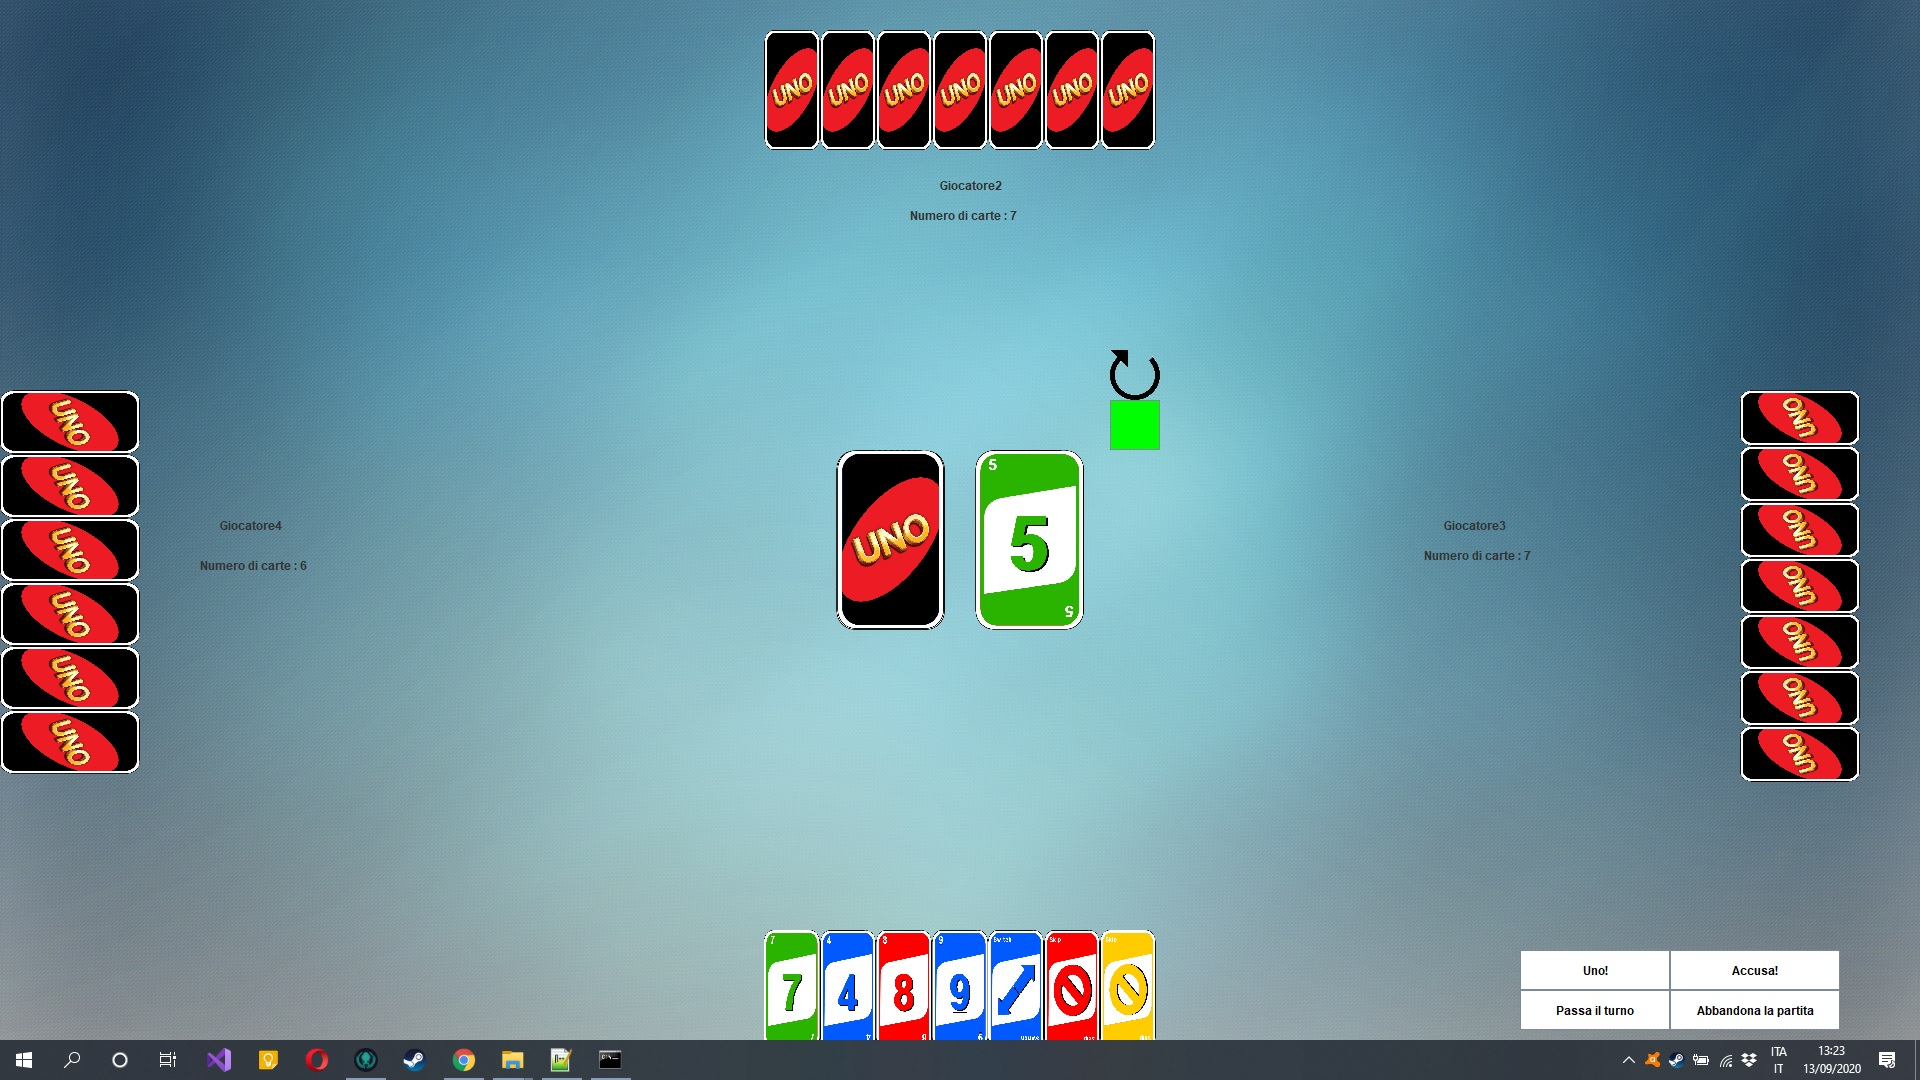
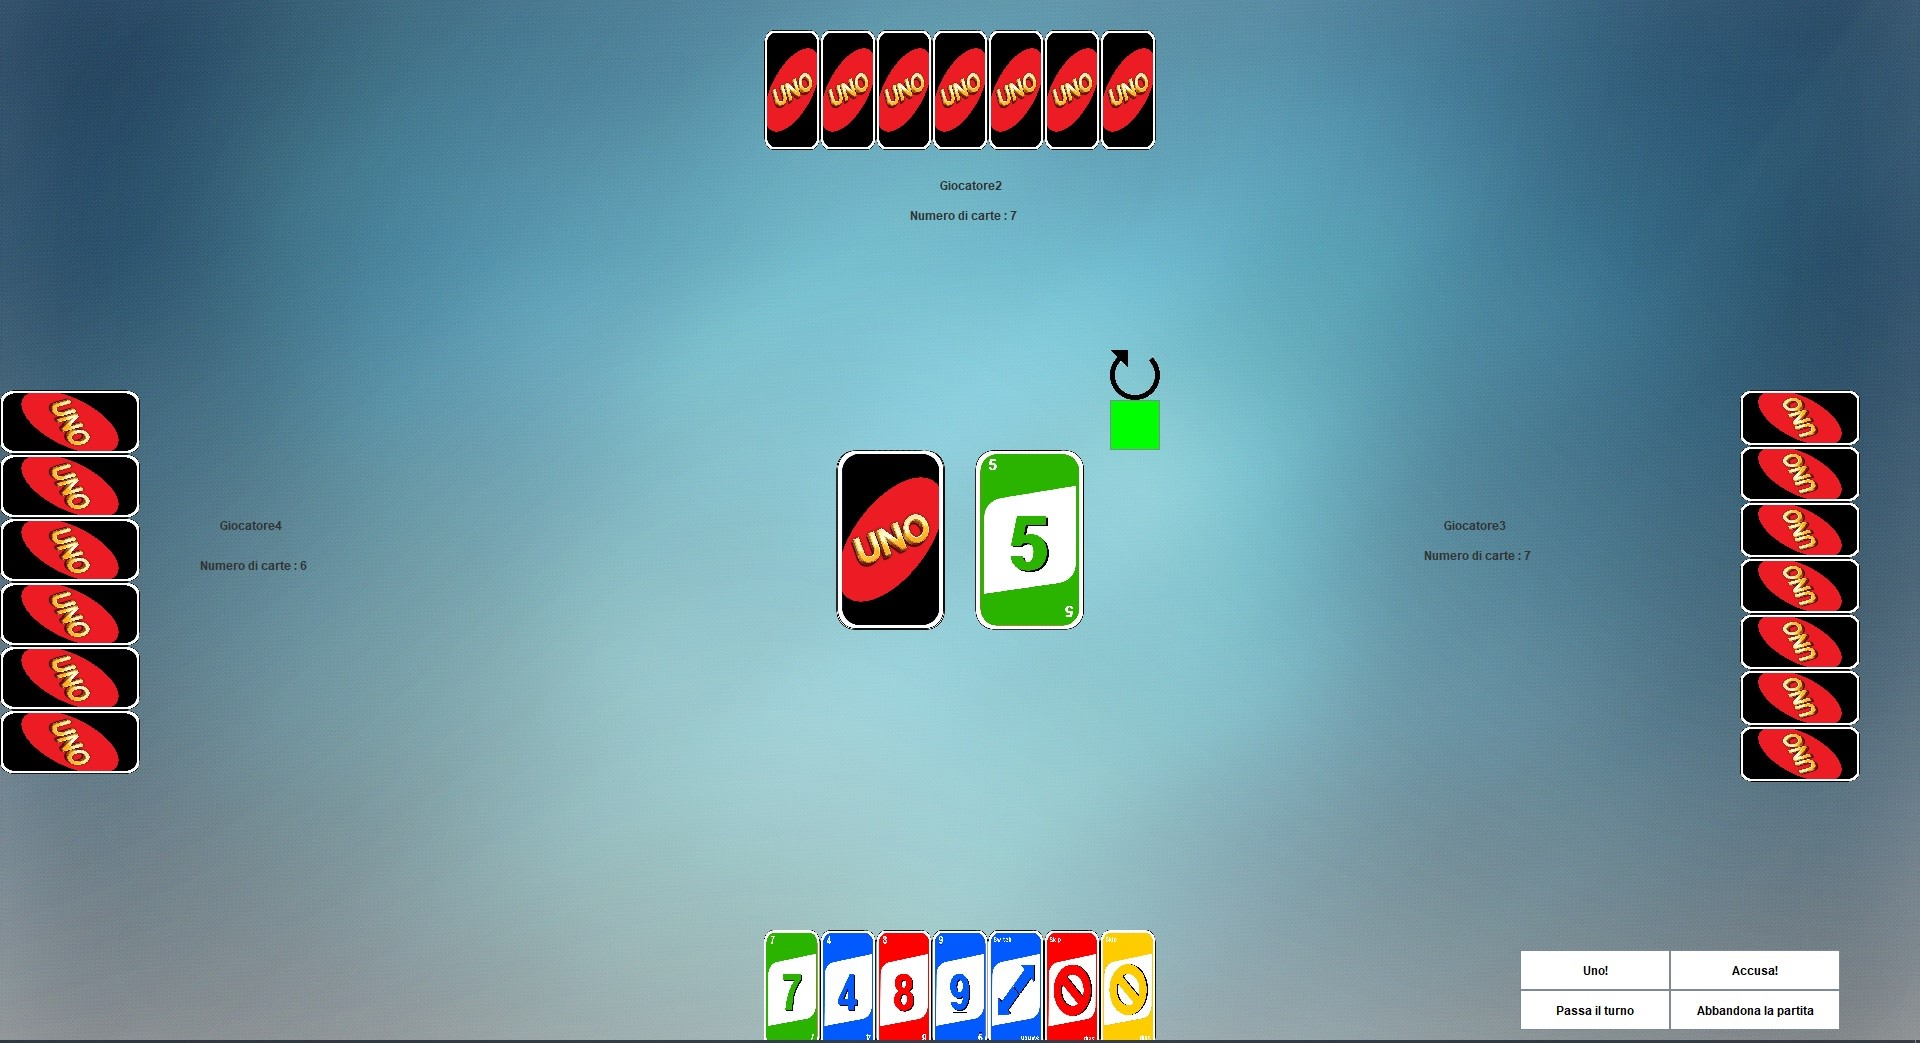
trying to fix the info div background

diff --git a/stylesheets/portfolioStyle.css b/stylesheets/portfolioStyle.css
@@ -18,9 +18,9 @@
 	float: left;
 	/*border: 1px dotted yellow;*/
 	width: 48%;
-	height: 500px;
+	
 	margin: 0.5%;
-	background-color: rgba(20, 20, 20, 0.7);
+	
 }
 
 
@@ -39,6 +39,8 @@
 .infoDiv{
 	text-align: center;
 	height: 100px;
+	background-color: rgba(20, 20, 20, 0.7);
+	
 }
 
 

diff --git a/javascripts/projectAdder.js b/javascripts/projectAdder.js
@@ -30,7 +30,7 @@ function loadDoc(portfolioType) {
   xhttp.open("GET", path, true);
   xhttp.send();
   */
-  alert("i've been called with: "+portfolioType);
+  console.log("i've been called with: "+portfolioType);
   loadJson(this,portfolioType);
 }
 
